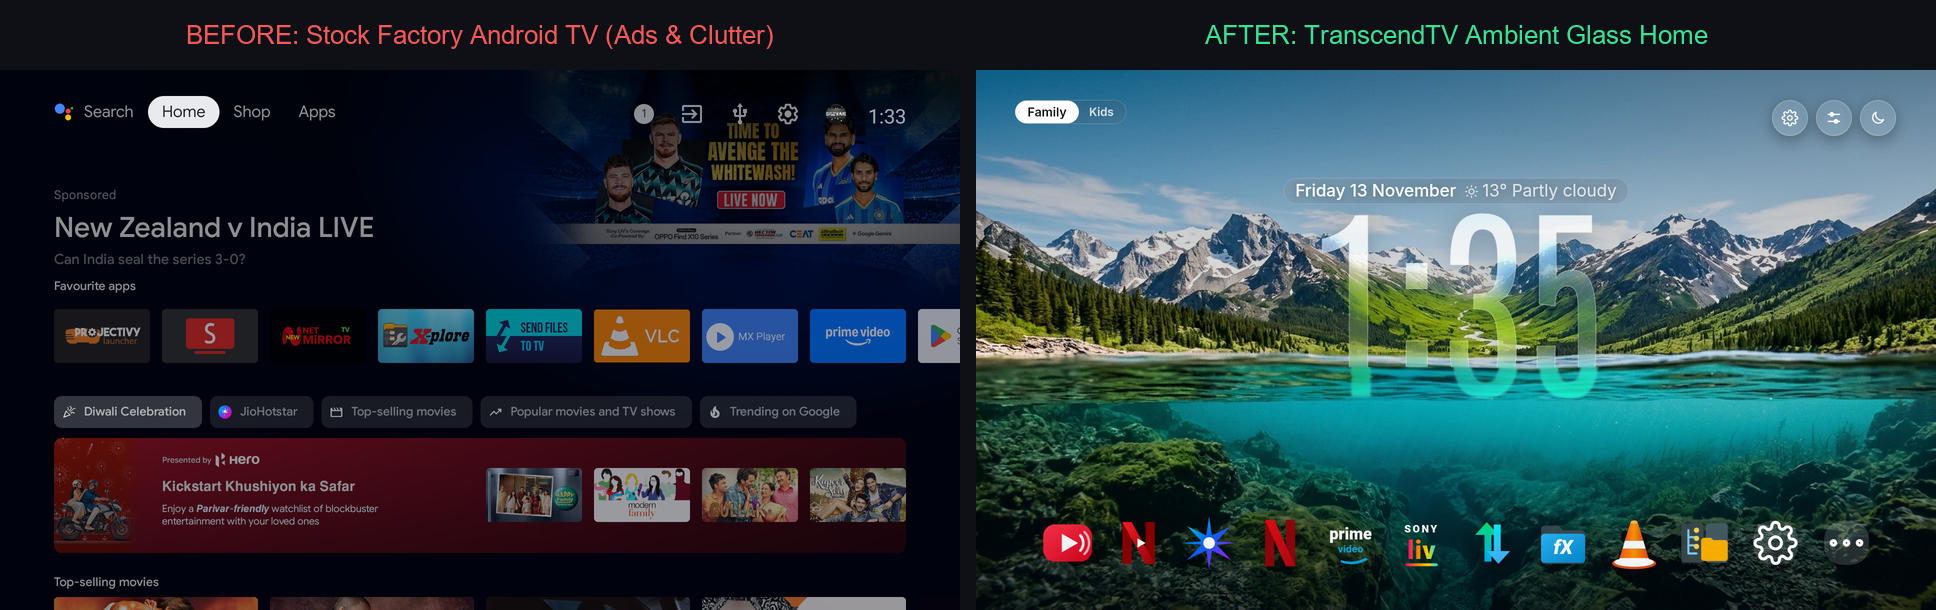
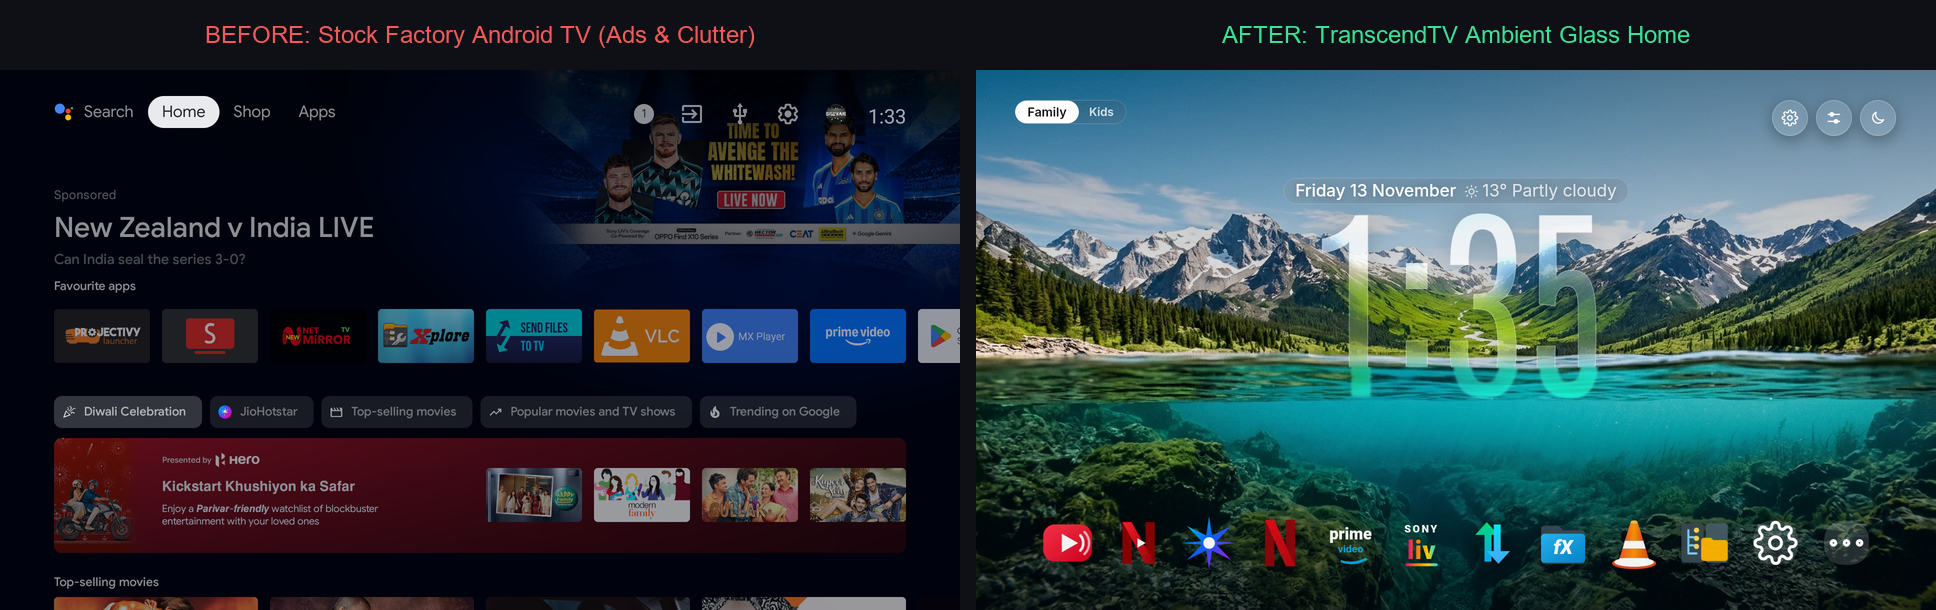
fix(docs): add accurate stock Home Screen Settings and Quick Actions before-and-after comparisons

Changed region(s): [[0.093, 0.0311, 0.4029, 0.0934], [0.6198, 0.0311, 0.8988, 0.0934]]

diff --git a/README.md b/README.md
@@ -36,33 +36,33 @@ TranscendTV strips away heavy Google Play recommendation daemons, dynamic ad inj
 
 Every screenshot below was captured directly from a physical 4K Android TV over ADB to demonstrate the real, unedited difference.
 
-### 1. Home Screen: Cluttered Billboard vs. Ambient Glass Sanctuary
+### 1. Home Screen: Cluttered Ad Billboard vs. Ambient Glass Sanctuary
 <div align="center">
   <img src="docs/screenshots/comparison_home.png" width="920" alt="Home Screen Before vs After" />
 </div>
 
-- **Before (Stock TV)**: Monopolized by cricket promotions, streaming ads, and clunky rectangular tiles.
-- **After (TranscendTV)**: Floating elevated dock at `4.5rem`, dynamic rotating 4K landscape wallpapers with depth cutouts, and 100% transparent vector app icons.
+- **Before (Stock Android TV)**: Monopolized by sponsored cricket promotions, streaming ads, and clunky rectangular tiles that consume 410+ MB RAM.
+- **After (TranscendTV)**: Floating elevated dock at `4.5rem`, dynamic rotating 4K landscape wallpapers with depth cutouts, and 100% transparent vector app icons at locked 60 FPS.
 
 ---
 
-### 2. Control Center & Menus: Generic Side Strip vs. GlassOS Control Center
+### 2. Quick Action Settings & Control Center: Stock Strip vs. GlassOS Control Center
 <div align="center">
-  <img src="docs/screenshots/comparison_menu.png" width="920" alt="Menu Before vs After" />
+  <img src="docs/screenshots/comparison_quick_actions.png" width="920" alt="Quick Actions Before vs After" />
 </div>
 
-- **Before (Stock TV)**: Clunky, slow, generic side strip menu with limited utility.
-- **After (TranscendTV)**: Instant **GlassOS Control Center** opened via the **`MENU`** key, featuring 8 frosted glass toggles (Sleep, Wi-Fi, Do Not Disturb, Audio, Timer, Controllers, Accessibility, Parental Control) with full 2D D-pad grid navigation.
+- **Before (Stock Android TV)**: Clunky, basic side menu strip with slow remote traversal and limited quick action triggers.
+- **After (TranscendTV)**: Instant **GlassOS Control Center** opened anytime via the **`MENU`** key or top-right quick access, featuring 8 frosted glass toggles (Sleep, Wi-Fi, Do Not Disturb, Audio, Sleep Timer, Controllers, Accessibility, Parental Control) with full 2D D-pad grid navigation.
 
 ---
 
-### 3. Settings: Dreary Android Settings vs. Frosted Glass Drawer
+### 3. Home Screen Settings: Channel & Ad Previews vs. Frosted Glass Drawer
 <div align="center">
-  <img src="docs/screenshots/comparison_settings.png" width="920" alt="Settings Before vs After" />
+  <img src="docs/screenshots/comparison_home_settings.png" width="920" alt="Home Settings Before vs After" />
 </div>
 
-- **Before (Stock TV)**: Plain, clinical Android system settings that obstruct media playback.
-- **After (TranscendTV)**: Ambient frosted glass drawer for profile management, wallpaper switching, and UI personalization without losing your place.
+- **Before (Stock Android TV Home Settings)**: Tedious channel management settings focused on enabling or disabling promotional carousels, video ad previews, and audio teasers.
+- **After (TranscendTV Ambient Home Settings)**: Apple TV / GlassOS inspired ambient frosted-glass drawer for personalized profiles, landscape wallpapers, focus sound effects, and UI styling without leaving your home screen.
 
 ---
 
